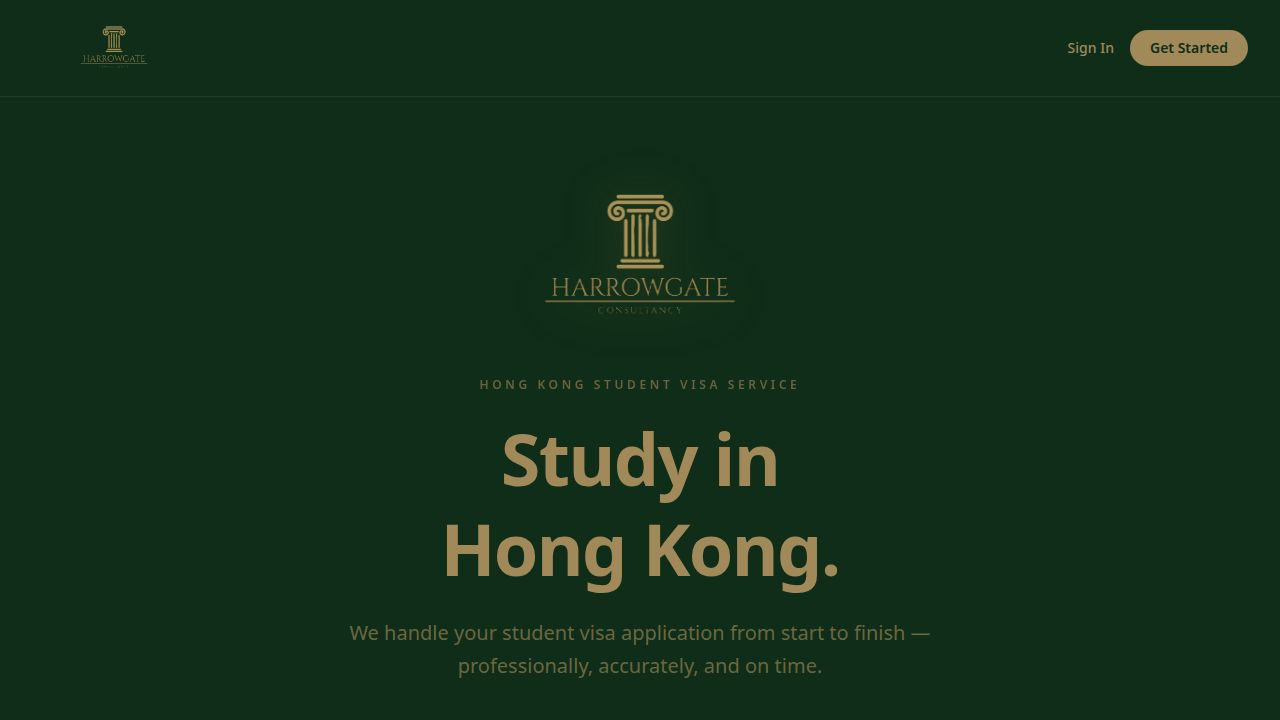
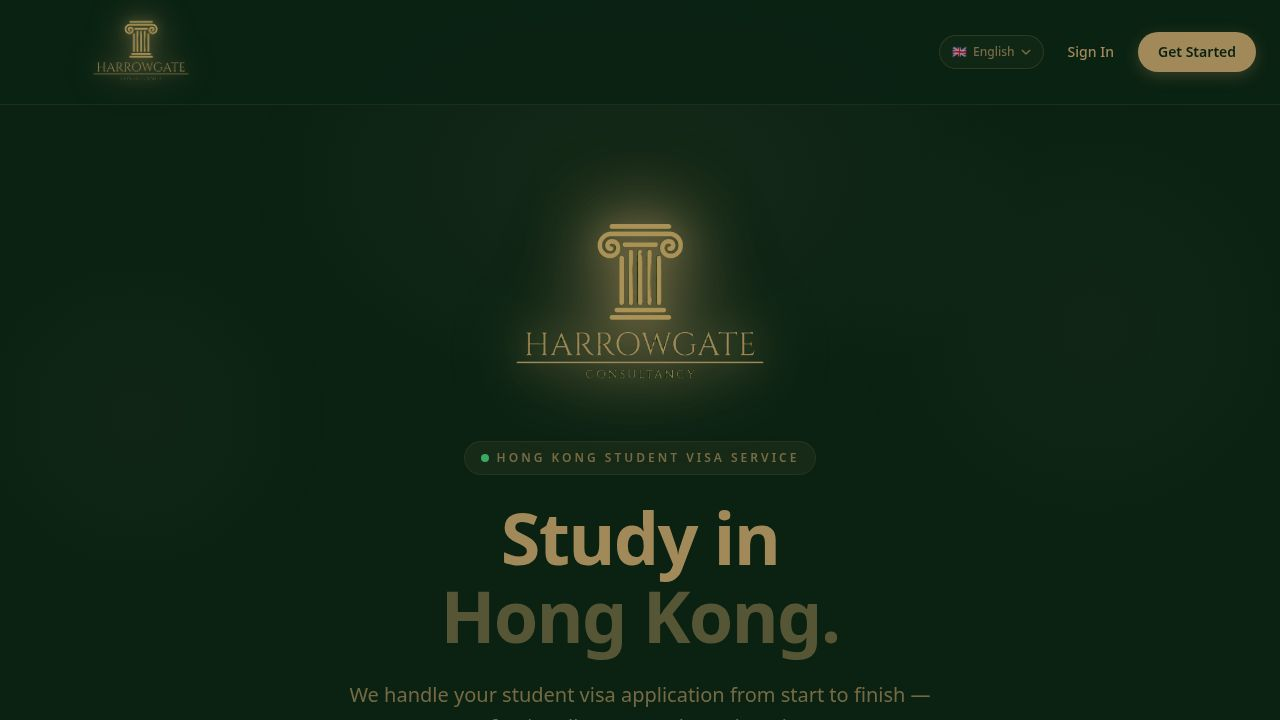
Improve Google integration by handling various JSON parsing scenarios
Update Google integration to include a robust `parseServiceAccountJson` function that handles potential double-stringification and escaped newlines in the `GOOGLE_SERVICE_ACCOUNT_JSON` environment variable.

Replit-Commit-Author: Agent
Replit-Commit-Session-Id: 0e906d90-2823-4895-9a54-f4814e1e0eb8
Replit-Commit-Checkpoint-Type: full_checkpoint
Replit-Commit-Event-Id: 325f6b59-0e85-4e2a-8bfc-b890b0e300ec
Replit-Commit-Screenshot-Url: https://storage.googleapis.com/screenshot-production-us-central1/8406eb44-1c18-45e5-825a-162971318e71/0e906d90-2823-4895-9a54-f4814e1e0eb8/7uhkMtn
Replit-Helium-Checkpoint-Created: true

diff --git a/artifacts/api-server/src/lib/googleIntegration.ts b/artifacts/api-server/src/lib/googleIntegration.ts
@@ -10,22 +10,33 @@ const SHEET_HEADERS = [
   "Immigration Ref #", "Drive Folder URL", "Created At", "Updated At",
 ];
 
+function parseServiceAccountJson(raw: string): Record<string, any> | null {
+  // Try direct parse first
+  try { return JSON.parse(raw); } catch {}
+  // Try unescaping once (double-stringified)
+  try { return JSON.parse(JSON.parse(raw)); } catch {}
+  // Try trimming surrounding quotes
+  try { return JSON.parse(raw.trim().replace(/^"|"$/g, "")); } catch {}
+  // Try replacing escaped newlines in private_key (common Replit quirk)
+  try { return JSON.parse(raw.replace(/\\n/g, "\n")); } catch {}
+  return null;
+}
+
 function getAuth() {
   const raw = process.env.GOOGLE_SERVICE_ACCOUNT_JSON;
   if (!raw) return null;
-  try {
-    const credentials = JSON.parse(raw);
-    return new google.auth.GoogleAuth({
-      credentials,
-      scopes: [
-        "https://www.googleapis.com/auth/drive",
-        "https://www.googleapis.com/auth/spreadsheets",
-      ],
-    });
-  } catch {
-    console.error("[Google] Failed to parse GOOGLE_SERVICE_ACCOUNT_JSON");
+  const credentials = parseServiceAccountJson(raw);
+  if (!credentials) {
+    console.error("[Google] Failed to parse GOOGLE_SERVICE_ACCOUNT_JSON — check the secret value is the raw JSON file contents");
     return null;
   }
+  return new google.auth.GoogleAuth({
+    credentials,
+    scopes: [
+      "https://www.googleapis.com/auth/drive",
+      "https://www.googleapis.com/auth/spreadsheets",
+    ],
+  });
 }
 
 function isConfigured(): boolean {